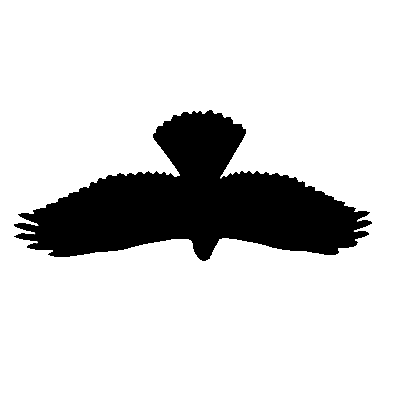
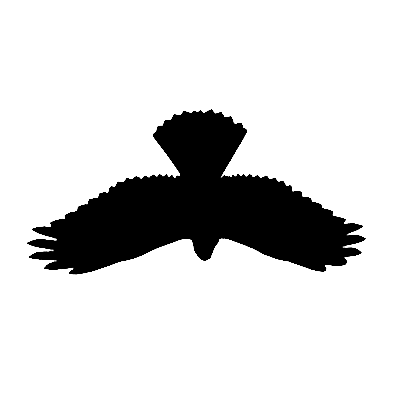
Make birds more flappy

Changed region(s): [[0.03, 0.42, 0.45, 0.69], [0.57, 0.42, 0.93, 0.69]]

diff --git a/src/org/csc133/a3/model/Bird.java b/src/org/csc133/a3/model/Bird.java
@@ -78,7 +78,7 @@ public class Bird extends Movable
         g.rotateRadians(-1 * amountToRotate, centerX, centerY);
 
         // bird changes sprite every 30 draws
-        spriteWaitTime = ++spriteWaitTime % 30;
+        spriteWaitTime = ++spriteWaitTime % 15;
         if (spriteWaitTime == 0)
         {
             currentSprite = ++currentSprite % 3;
